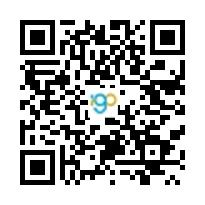
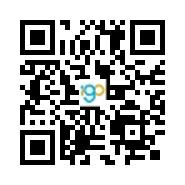
取消購物車加入我的最愛功能

diff --git a/IGO/Controllers/ShoppingCartController.cs b/IGO/Controllers/ShoppingCartController.cs
@@ -24,8 +24,10 @@ namespace IGO.Controllers
     {
         private readonly IWebHostEnvironment webHostEnvironment;
         private DemoIgoContext _dbIgo;
+		
 
-        public ShoppingCartController(IWebHostEnvironment hostEnvironment, DemoIgoContext db)
+
+		public ShoppingCartController(IWebHostEnvironment hostEnvironment, DemoIgoContext db)
         {
 
             webHostEnvironment = hostEnvironment;
@@ -74,12 +76,14 @@ namespace IGO.Controllers
             List<int> IDs = JsonSerializer.Deserialize<List<int>>(json);
 
             List<CShoppingCartViewModel> lists = new List<CShoppingCartViewModel>();
-
-            foreach (TShoppingCart data in _dbIgo.TShoppingCarts.Where(c => IDs.Contains(c.FShoppingCartId)).ToList())
+			
+            
+			foreach (TShoppingCart data in _dbIgo.TShoppingCarts.Where(c => IDs.Contains(c.FShoppingCartId)).ToList())
             {
                 CShoppingCartViewModel shoppingCartViewModel = new CShoppingCartViewModel(_dbIgo);
                 shoppingCartViewModel.shoppingCart = data;
                 lists.Add(shoppingCartViewModel);
+				
             };
 
             //=======================================預設金流變數=========================================
@@ -88,11 +92,12 @@ namespace IGO.Controllers
             ViewData["MerchantID"] = Config.GetSection("MerchantID").Value;
             ViewData["MerchantOrderNo"] = DateTime.Now.ToString("yyyyMMddHHmmss");  //訂單編號
             ViewData["ExpireDate"] = DateTime.Now.AddDays(3).ToString("yyyyMMdd"); //繳費有效期限
-            ViewData["ReturnURL"] = $"{Request.Scheme}://{Request.Host}{Request.Path}Home/CallbackReturn"; //支付完成返回商店網址
+            ViewData["ReturnURL"] = $"{Request.Scheme}://{Request.Host}{Request.Path}ShoppingCart/Finish"; //支付完成返回商店網址
             ViewData["CustomerURL"] = ""; //商店取號網址
             ViewData["NotifyURL"] = ""; //支付通知網址
                                         //ViewData["ClientBackURL"] = $"{Request.Scheme}://{Request.Host}{Request.Path}"; //返回商店網址
-            ViewData["ClientBackURL"] = $"{Request.Scheme}://{Request.Host}{Request.Path}ShoppingCart/Finish"; //返回商店網址
+            ViewData["ClientBackURL"] = $"{Request.Scheme}://{Request.Host}/ShoppingCart/Finish"; //返回商店網址
+
             //=======================================預設金流變數=========================================
 
             return View(lists);
@@ -243,8 +248,23 @@ namespace IGO.Controllers
 
 		public IActionResult Finish()
         {
-            QRCodeGenerator qrGenerator = new QRCodeGenerator();
-            QRCodeData qrCodeData = qrGenerator.CreateQrCode("123", QRCodeGenerator.ECCLevel.Q);
+			//===============================取結帳清單資料=================================================
+			var json = HttpContext.Session.GetString(CDictionary.SK_Selected_Item);
+			List<int> IDs = JsonSerializer.Deserialize<List<int>>(json);
+
+			List<CShoppingCartViewModel> lists = new List<CShoppingCartViewModel>();
+
+
+			foreach (TShoppingCart data in _dbIgo.TShoppingCarts.Where(c => IDs.Contains(c.FShoppingCartId)).ToList())
+			{
+				CShoppingCartViewModel shoppingCartViewModel = new CShoppingCartViewModel(_dbIgo);
+				shoppingCartViewModel.shoppingCart = data;
+				lists.Add(shoppingCartViewModel);
+
+			};
+			//===============================產生QRCODE=================================================
+			QRCodeGenerator qrGenerator = new QRCodeGenerator();
+            QRCodeData qrCodeData = qrGenerator.CreateQrCode(lists[0].product.FProductName, QRCodeGenerator.ECCLevel.Q);
             QRCode qrCode = new QRCode(qrCodeData);
             //Bitmap icon = new Bitmap(@"wwwroot\ShoppingCartImgs\IGO.jpg");
             Bitmap icon = new Bitmap(webHostEnvironment.WebRootPath + "/ShoppingCartImgs/IGO.jpg");
